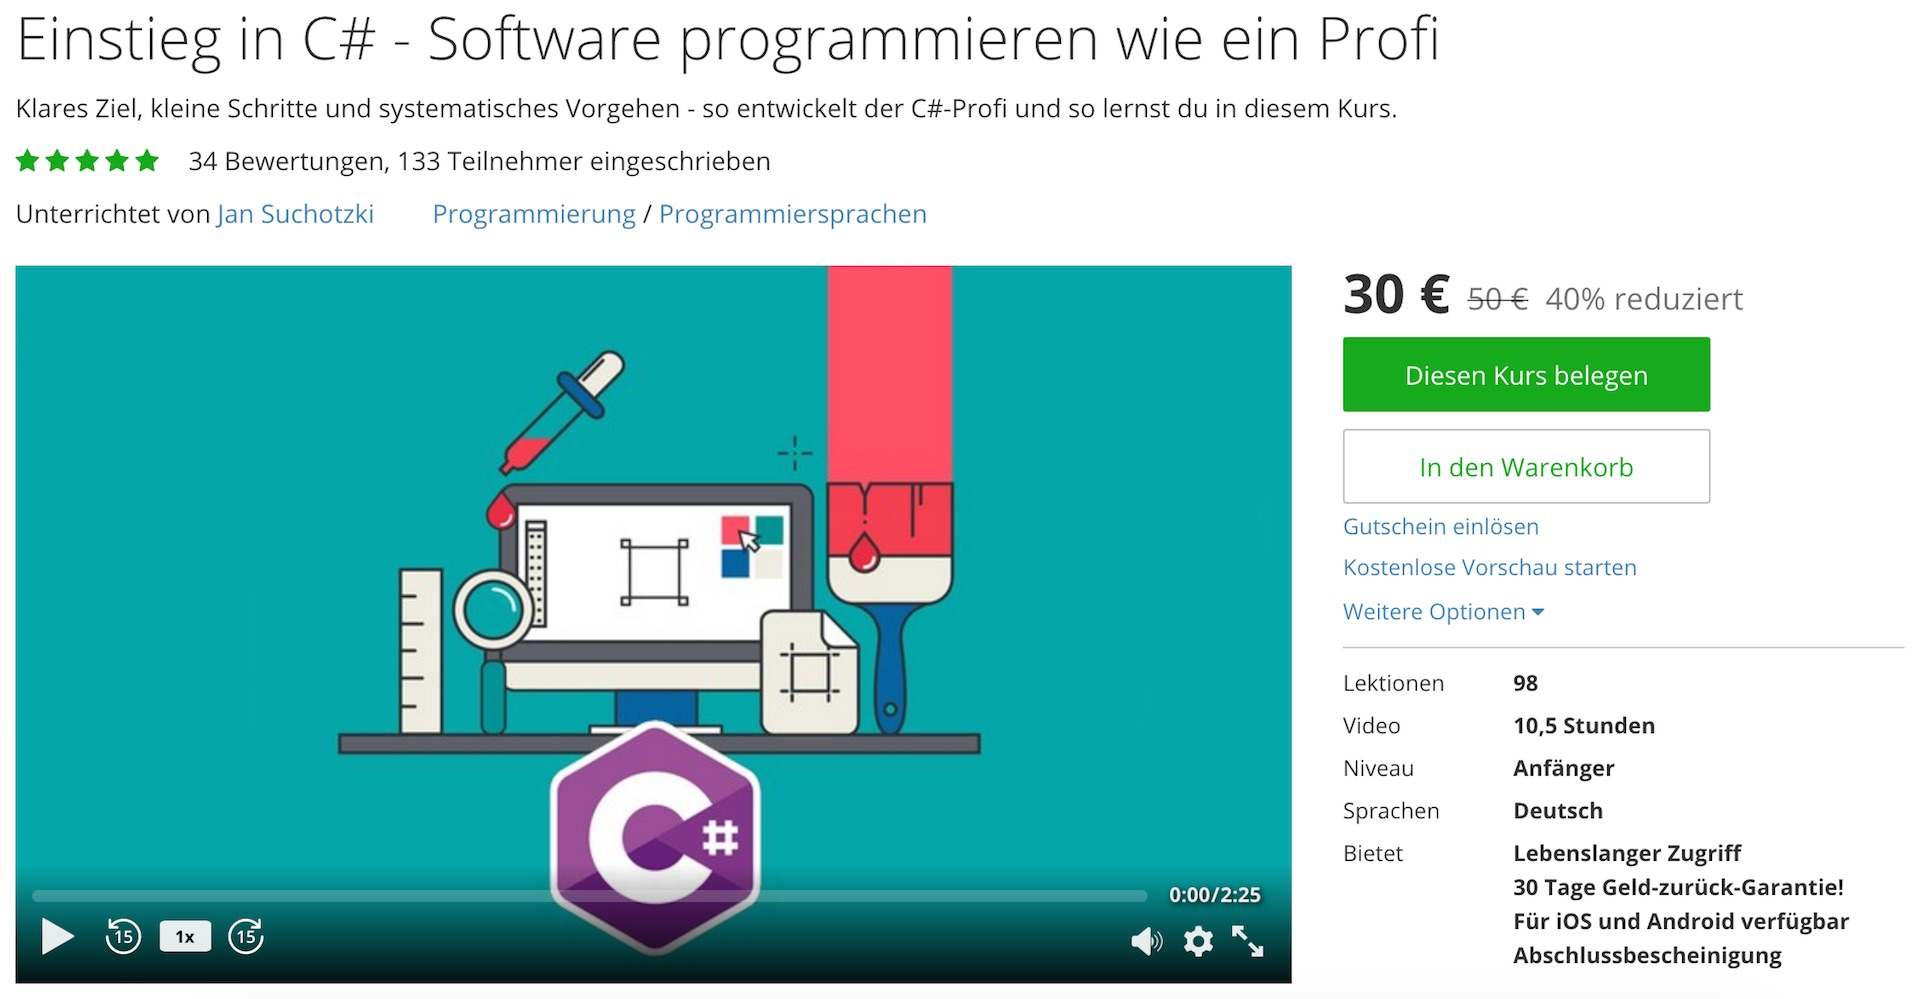
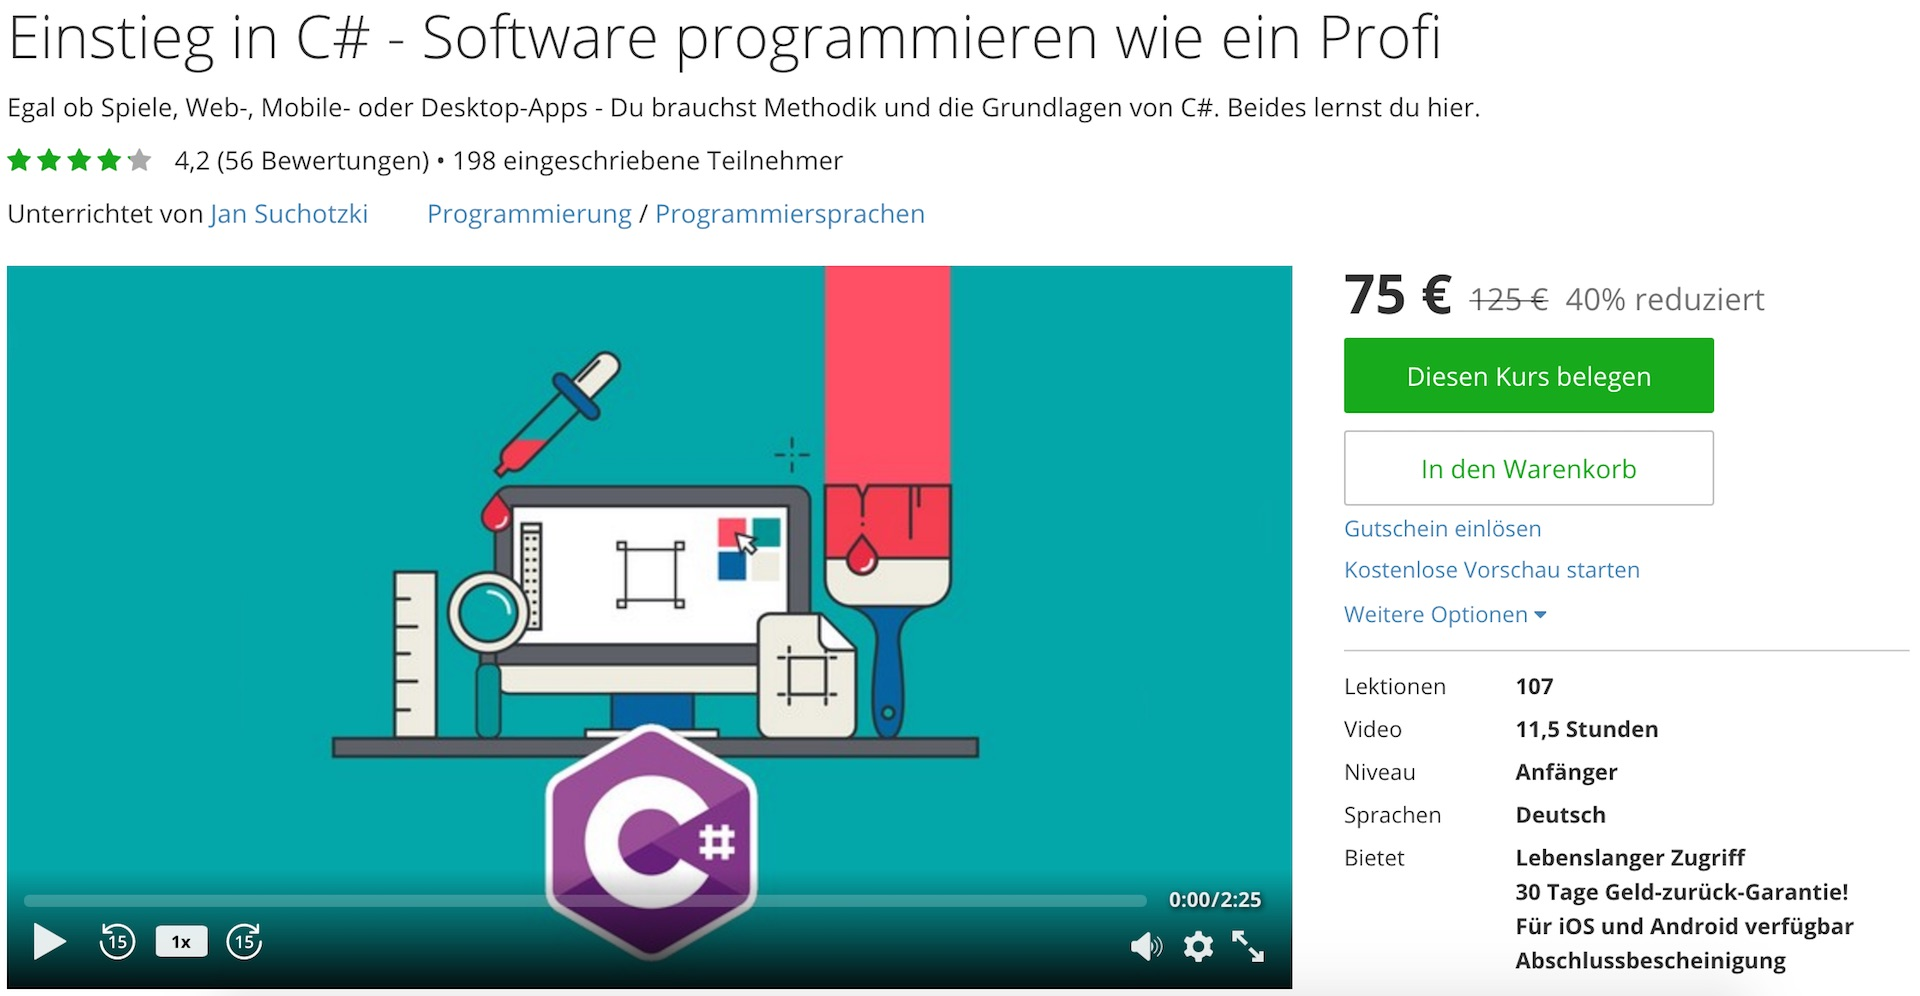
Stellt um auf das neue Preismodell

diff --git a/einstieg-csharp/index.md b/einstieg-csharp/index.md
@@ -14,7 +14,7 @@ Mit diesem Kurs hast du in 30 Minuten deine erste C#-Anwendung entwickelt. Viel 
 
 Alles Wissenswerte zum Kurs bekommst du, wenn du auf das folgende Bild klickst. Für dich als Leser meines Blogs gibt es auch einen Rabatt. Weiter unten findest du (kostenloses) Bonusmaterial zum Kurs. 
 <figure>
-	<a href="https://www.udemy.com/einstieg-in-csharp-software-programmieren-wie-ein-profi/?couponCode=LM2016_UCsK30" target="_blank"><img src="/images/UCsK_LandingPage_Rabatt_Gross.jpg" alt="image"></a>
+	<a href="https://www.udemy.com/einstieg-in-csharp-software-programmieren-wie-ein-profi/?couponCode=LM2016_UCSK75" target="_blank"><img src="/images/UCsK_LandingPage_Rabatt_Gross.jpg" alt="image"></a>
 </figure>
 
 ## Details und weitere Ressourcen zum Kurs
